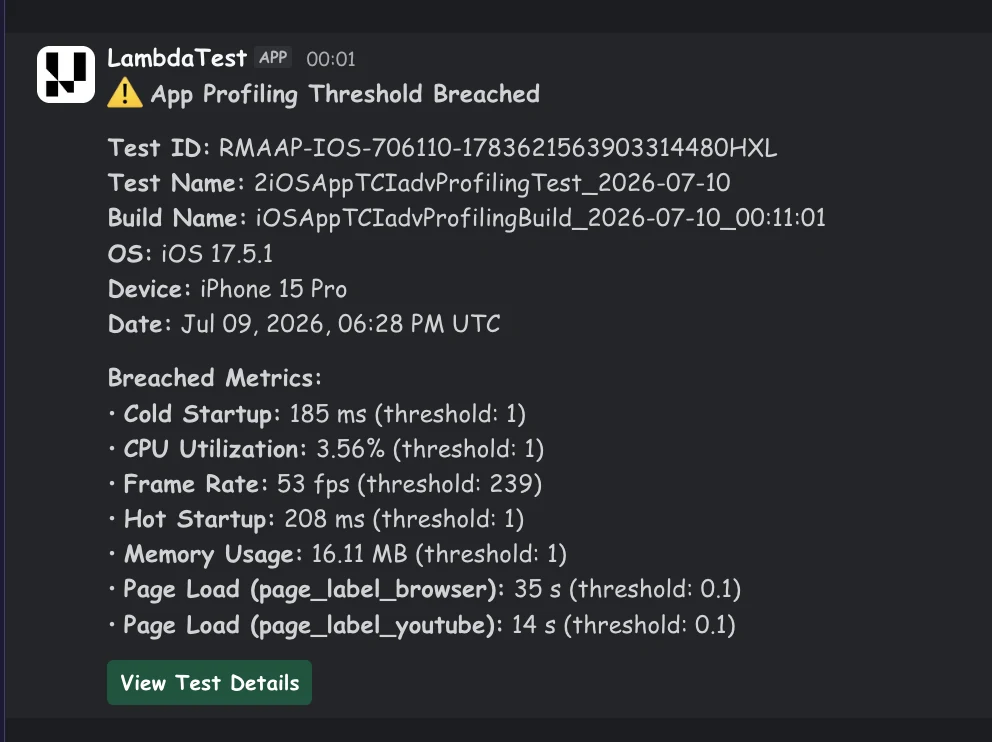
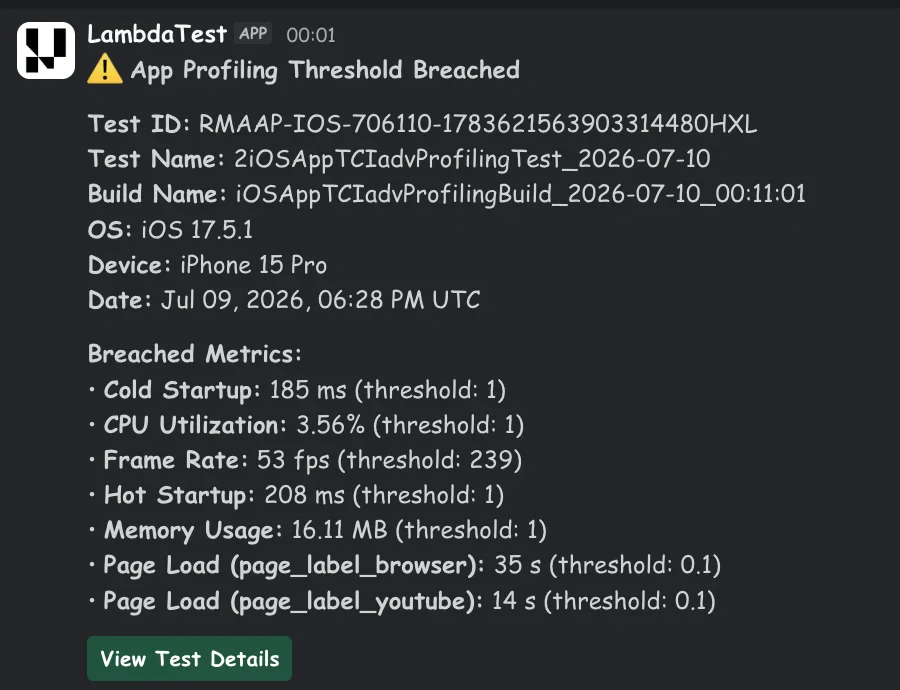
Split App Profiling into Trends and Comparison pages; fix NewTag and crop the alert screenshots
Addresses review feedback on the page structure and images.

Sidebar — Trends and Comparison are now two entries, not one page:
- Wraps both under a nested "App Profiling" category in sidebars.js, following
  the existing "Error Insights" precedent in the same Insights list.
- Comparison moves to its own page, docs/analytics-insights-app-profiling-
  comparison.md, with its own front matter, breadcrumb schema and slug.
- The Trends page keeps id insights-app-profiling; its sidebar_label becomes
  "Trends" so the two read as siblings.

Comparison no longer reads as part of Compare mode. It sat directly after that
section, which made it look like a sub-feature of it. The two are now separate
pages, and both carry an explicit note on the distinction: Compare mode overlays
a dimension (OS, device, build, label) on one widget; Comparison overlays whole
test sessions across every metric.

NewTag rendered as an empty ring. The component signature is
NewTag({ value, color, bgColor }) and value is required — bare <NewTag/> emitted
an empty span, which the .newTagColor rule (1px border, 20px radius, 6px
padding) drew as a small circle. All five usages now pass value="New", matching
the dominant convention in this repo (42 other call sites).

Screenshots cropped to their content rather than the whole window:
- Email alert was a full-page Gmail capture at 2478 px wide — most of it browser
  chrome and white margin. Cropped to the notification itself, 2478x1454 ->
[…]

Changed region(s): [[0.0933, 0.487, 0.8089, 1.0], [0.0, 0.0304, 0.9022, 0.4565]]

diff --git a/sidebars.js b/sidebars.js
@@ -4410,7 +4410,15 @@ module.exports = {
         "analytics-smart-tags-test-intelligence",
         "analytics-test-failure-classification",
         "analytics-ai-root-cause-analysis",
-        "insights-app-profiling",
+        {
+          type: "category",
+          collapsed: true,
+          label: "App Profiling",
+          items: [
+            "insights-app-profiling",
+            "insights-app-profiling-comparison",
+          ],
+        },
       ],
     },
     {

diff --git a/docs/analytics-insights-app-profiling.md b/docs/analytics-insights-app-profiling.md
@@ -1,7 +1,7 @@
 ---
 id: insights-app-profiling
 title: App Profiling Insights
-sidebar_label: App Profiling
+sidebar_label: Trends
 description: App Profiling Insights surfaces CPU, memory, FPS, battery, network and startup metrics per device and build, with p90 views, session Comparison and SLA alerts.
 keywords:
   - analytics
@@ -77,8 +77,8 @@ The page is always scoped to the test you opened. Use the **Test Name** filter t
 
 The dashboard opens on two tabs:
 
-- **Trends** — the aggregated view described below: KPI cards, trend widgets and the device matrix, averaged across every session in the filtered scope.
-- **[Comparison](#comparison)** — an overlay view that plots individual test sessions against one another, run by run.
+- **Trends** — the aggregated view described on this page: KPI cards, trend widgets and the device matrix, averaged across every session in the filtered scope.
+- **[Comparison](/support/docs/insights-app-profiling-comparison/)** — an overlay view that plots individual test sessions against one another, run by run.
 
 ## Filter bar
 
@@ -97,11 +97,11 @@ Each filter is a searchable multi-select; changes take effect when you click **A
 
 Clearing the Test Name filter and clicking Apply restores the test you opened — the dashboard is never scoped to zero tests.
 
-### Saved filters <NewTag/>
+### Saved filters <NewTag value="New" />
 
 Your filter selections, the selected date range, and the widget layout — including any widgets you resize — are **auto-saved at the organisation level**. There is no Save button: when you refresh the page or return to the dashboard later, it reopens with your last-used filters, date range and layout already applied. Use the **Clear All Filters** button to reset everything back to the defaults. The KPI and Compare selections made inside individual widgets are not persisted.
 
-## Average and p90 views <NewTag/>
+## Average and p90 views <NewTag value="New" />
 
 An **Average / p90** toggle in the top bar of the **Trends** tab switches its widgets between two aggregations:
 
@@ -125,11 +125,9 @@ Averages hide spikes. A build whose CPU averages 12% but reaches 45% on every te
 p90 is computed per session at ingestion and then averaged across the sessions in scope — it is *the mean of each session's own 90th percentile*, not the 90th percentile of the whole window. Metrics with no pre-computed p90 — cold and hot startup, and the crash and ANR counts — are dropped in p90 mode and render as `—`. Frozen and janky frame counts stay on their average, because they are companion counts to the frame-rate series rather than percentile-able metrics in their own right.
 :::
 
-### p90 on the Comparison tab
+### p90 and the Comparison view
 
-The Comparison tab has **no Average / p90 toggle** — the Trends toggle does not carry across, and switching tabs will not change what Comparison shows.
-
-It does not need one: every stats table on that tab reports **Avg, Min, Max and P90 side by side, always**, for each selected session. Where the Trends toggle makes you choose one aggregation for the whole dashboard, Comparison shows you all four at once for the handful of runs you have selected — which is the more useful shape when you are looking at individual runs rather than a population.
+The toggle applies to this view only. The [Comparison](/support/docs/insights-app-profiling-comparison/) view has no Average / p90 toggle — it reports Avg, Min, Max and P90 side by side for every selected session instead.
 
 ## Performance Overview
 
@@ -203,79 +201,9 @@ Compare dimensions:
 - **App Build Version** — for build-over-build comparisons
 - **Label** — for page-transition-level breakdowns
 
+Compare mode overlays a **dimension** on a single widget. It is a different feature from the [Comparison](/support/docs/insights-app-profiling-comparison/) view, which overlays whole **test sessions** across every metric at once.
+
 Compare is scoped to the widget — enabling it on one chart does not affect others. Performance Overview, Performance Trends and Device Performance Matrix do not expose Compare: the first two are summary widgets (use filters to change the data scope instead), and the matrix already breaks data down per device.
-
-## Comparison <NewTag/>
-
-The **Comparison** tab plots individual test sessions against one another instead of averaging them. Use it to answer run-level questions the Trends tab cannot: whether a build regressed against the run before it, whether one device is slower than another on the same app, or why a single run behaved differently from the rest.
-
-Where the Trends tab charts a metric over calendar time, Comparison charts it over **elapsed time within each run** — every session starts at `0:00`, so runs of different lengths and different start times line up and can be read against each other.
-
-<img loading="lazy" src={require('../assets/images/analytics/app-profiling-comparison.webp').default} alt="App Profiling Comparison view with three test sessions overlaid" width="768" className="doc_img"/>
-
-### Complete flow
-
-1. Open a test's App Profiling dashboard and select the **Comparison** tab. The **most recent** run of that test is selected automatically and becomes the baseline — note that this is the newest run, not necessarily the specific run you opened the dashboard from.
-2. Narrow the **Test Sessions** rail on the left with the search box and filters until you can see the runs you care about.
-3. Tick the checkbox on each session you want to overlay — up to **five** at a time.
-4. Pick which run everything is measured against with **Set as Baseline**.
-5. Read the charts and the per-metric stats tables. Leave **Baseline Diff.** on to see each session's delta against the baseline.
-6. Drag on the timeline at the top to zoom into a slice of the run; every chart follows.
-
-### Test Sessions rail
-
-The rail lists every session that matches the current filters, with a running count in the header. Sessions you have selected for comparison are **pinned to the top** so they stay visible as you filter; everything else follows, newest first. Each card shows the pass/fail status, the test name, when it ran, a truncated Test ID, and the OS version, device and app build version it ran on.
-
-| Control | What it does |
-|---|---|
-| **Search test name** | Free-text filter over the listed session names |
-| **Test Name** | Multi-select of test names. At least one must stay selected — **Apply** is disabled otherwise |
-| **Date range** | The same picker the Trends tab uses, with presets and a custom range including a time-of-day picker |
-| **More** | **OS**, **App Build Version**, **Device** and **Status** multi-selects |
-| **Clear Filters** | Resets the filters back to the opened test and the comparison back to that test's most recent run. The date range is deliberately preserved — it belongs to the shared picker, not to this filter set |
-| Checkbox | Adds or removes that session from the comparison |
-| **Set as Baseline** | Makes that session the reference every other session is measured against |
-
-<img loading="lazy" src={require('../assets/images/analytics/app-profiling-comparison-filters.webp').default} alt="Test Sessions rail with the More filter menu open showing OS, App Build Version, Device and Status" width="768" className="doc_img"/>
-
-:::note
-You can compare up to five sessions at once — deselect one to add another — and at least one session must stay selected, so the charts are never left empty.
-:::
-
-### How the graphs are drawn
-
-Each metric renders as its own card, in this order: **CPU Utilization**, **Memory Utilization**, **Frame Rate**, **Disk**, **Network**, and **Startup Time**.
-
-- **One series per selected session**, coloured consistently across every card — a session keeps its colour everywhere, so you can follow one run down the page.
-- **A shared elapsed-time X-axis.** Dragging on the **Comparison of Test Sessions** timeline at the top zooms every chart to the same window at once, which is what makes a spike in one metric comparable against another.
-- **Legend toggles.** Click a session in a card's legend to hide or show that series in that card. The last visible series cannot be hidden.
-- **Variant toggles** where a metric has more than one dimension: Application / System on CPU and Memory, Read / Write on Disk, Upload / Download on Network, and Startup Time / Load Time on the startup card.
-- **SLA bands and threshold lines** are drawn from the same org-level thresholds used everywhere else on the dashboard.
-- **A stats table** under every chart with **Avg**, **Min**, **Max** and **P90** per session — all four at once, with no toggle. See [p90 on the Comparison tab](#p90-on-the-comparison-tab).
-
-**Startup Time** is a grouped bar chart rather than a line — it reports one Cold and one Hot value per run, with the Cold and Hot SLA lines drawn across it. Its **Load Time** variant switches to per-page-label load times, plotted by label instead of by elapsed time.
-
-<img loading="lazy" src={require('../assets/images/analytics/app-profiling-comparison-startup.webp').default} alt="Startup Time comparison showing Cold and Hot bars per session with SLA lines and baseline deltas" width="768" className="doc_img"/>
-
-### Baseline and Baseline Diff
-
-One session is always the baseline, marked with a **Baseline** chip in the rail and in every stats table.
-
-With **Baseline Diff.** enabled — it is on by default — every other session's stats show a coloured delta against the baseline: green where the session is better, red where it is worse. The direction that counts as "better" follows the metric, so a lower CPU figure and a higher frame rate are both green. In the Startup Time screenshot above, the two non-baseline runs start `142 ms` and `94 ms` faster than the baseline's cold start.
-
-Turn **Baseline Diff.** off to read raw values with no deltas.
-
-### Saved comparisons <NewTag/>
-
-Your Comparison setup is **auto-saved per test at the organisation level**, the same way the Trends tab saves its filters and layout. There is no Save button. Reopening the tab restores:
-
-- the rail filters — test names, OS, device, status and app build version,
-- which sessions were selected for comparison,
-- which session was the baseline,
-- the **Baseline Diff.** toggle,
-- any series you hid from a card's legend.
-
-The date range is not part of the saved comparison — it is owned by the page's date picker and shared with the Trends tab, so both tabs always report over the same window.
 
 ## SLA thresholds
 
@@ -306,17 +234,17 @@ Battery Utilization (mAh drain) is rendered without a threshold by default — d
 Admins can override the defaults at the organisation level. Regular users see the configured thresholds applied but cannot modify them.
 :::
 
-## Threshold breach alerts <NewTag/>
+## Threshold breach alerts <NewTag value="New" />
 
 When a session breaches a configured App Profiling threshold, <BrandName /> automatically notifies your team over **email** and **Slack** — so you can catch performance regressions without opening the dashboard after every run.
 
 Each alert identifies the run (Test ID, Test Name, Build Name, OS, Device and date) and lists every breached metric with its observed value against the configured threshold, along with a **View Test Details** link that opens the run's App Profiling tab. Metrics that can trigger an alert include Cold Startup, Hot Startup, CPU Utilization, Frame Rate, Memory Usage, Temperature and per-label Page Load.
 
-<img loading="lazy" src={require('../assets/images/analytics/app-profiling-email-alert.webp').default} alt="App Profiling threshold breach email alert" width="768" className="doc_img"/>
+<img loading="lazy" src={require('../assets/images/analytics/app-profiling-email-alert.webp').default} alt="App Profiling threshold breach email alert" width="768" height="958" className="doc_img"/>
 
 The Slack notification carries the same details:
 
-<img loading="lazy" src={require('../assets/images/analytics/app-profiling-slack-alert.webp').default} alt="App Profiling threshold breach Slack alert" width="480" className="doc_img"/>
+<img loading="lazy" src={require('../assets/images/analytics/app-profiling-slack-alert.webp').default} alt="App Profiling threshold breach Slack alert" width="768" height="588" className="doc_img"/>
 
 :::note
 Alerts fire against the same SLA thresholds described above, which are configured at the organisation level by an admin.
@@ -328,5 +256,6 @@ The URL of the dashboard preserves the test it was opened against, and which of 
 
 ## Related
 
+- [App Profiling Comparison](/support/docs/insights-app-profiling-comparison/) — compare individual test sessions run by run against a baseline.
 - [App Performance Analytics](/support/docs/appium-app-performance-analytics/) — how to enable App Profiling on Appium tests and review per-session metrics.
 - [Analytics Overview](/support/docs/analytics-overview/) — the broader Insights module.

diff --git a/docs/analytics-insights-app-profiling-comparison.md b/docs/analytics-insights-app-profiling-comparison.md
@@ -1,0 +1,148 @@
+---
+id: insights-app-profiling-comparison
+title: App Profiling Comparison
+sidebar_label: Comparison
+description: Overlay up to five App Profiling test sessions on a shared elapsed-time axis, set a baseline run and read per-metric deltas, Avg, Min, Max and P90.
+keywords:
+  - analytics
+  - test insights
+  - app profiling
+  - session comparison
+  - baseline diff
+  - mobile app performance
+  - run over run comparison
+  - elapsed time chart
+
+url: https://www.testmuai.com/support/docs/insights-app-profiling-comparison/
+site_name: TestMu AI
+slug: insights-app-profiling-comparison/
+canonical: https://www.testmuai.com/support/docs/insights-app-profiling-comparison/
+---
+
+
+import BrandName, { BRAND_URL } from '@site/src/component/BrandName';
+
+<script type="application/ld+json"
+      dangerouslySetInnerHTML={{ __html: JSON.stringify({
+       "@context": "https://schema.org",
+        "@type": "BreadcrumbList",
+        "itemListElement": [{
+          "@type": "ListItem",
+          "position": 1,
+          "name": "Home",
+          "item": BRAND_URL
+        },{
+          "@type": "ListItem",
+          "position": 2,
+          "name": "Support",
+          "item": `${BRAND_URL}/support/docs/`
+        },{
+          "@type": "ListItem",
+          "position": 3,
+          "name": "App Profiling Comparison",
+          "item": `${BRAND_URL}/support/docs/insights-app-profiling-comparison/`
+        }]
+      })
+    }}
+></script>
+
+---
+
+import NewTag from '../src/component/newTag';
+
+## Overview
+
+The **Comparison** view plots individual test sessions against one another instead of averaging them. Use it to answer run-level questions the [Trends](/support/docs/insights-app-profiling/) view cannot: whether a build regressed against the run before it, whether one device is slower than another on the same app, or why a single run behaved differently from the rest.
+
+Where Trends charts a metric over calendar time, Comparison charts it over **elapsed time within each run** — every session starts at `0:00`, so runs of different lengths and different start times line up and can be read against each other.
+
+<img loading="lazy" src={require('../assets/images/analytics/app-profiling-comparison.webp').default} alt="App Profiling Comparison view with three test sessions overlaid" width="768" height="430" className="doc_img"/>
+
+:::note
+Comparison is a different feature from **Compare mode** on the Trends widgets. Compare mode overlays a *dimension* — OS, device, build or label — on a single widget. Comparison overlays whole *test sessions* across every metric at once. See [Compare mode](/support/docs/insights-app-profiling/#compare-mode).
+:::
+
+## How to access
+
+1. Open the **Insights** section from the left sidebar of the <BrandName /> dashboard.
+2. Select **App Profiling**, then click a test name to open its dashboard.
+3. Switch to the **Comparison** tab.
+
+## Complete flow
+
+1. The **most recent** run of the test is selected automatically and becomes the baseline — note that this is the newest run, not necessarily the specific run you opened the dashboard from.
+2. Narrow the **Test Sessions** rail on the left with the search box and filters until you can see the runs you care about.
+3. Tick the checkbox on each session you want to overlay — up to **five** at a time.
+4. Pick which run everything is measured against with **Set as Baseline**.
+5. Read the charts and the per-metric stats tables. Leave **Baseline Diff.** on to see each session's delta against the baseline.
+6. Drag on the timeline at the top to zoom into a slice of the run; every chart follows.
+
+## Test Sessions rail
+
+The rail lists every session that matches the current filters, with a running count in the header. Sessions you have selected for comparison are **pinned to the top** so they stay visible as you filter; everything else follows, newest first. Each card shows the pass/fail status, the test name, when it ran, a truncated Test ID, and the OS version, device and app build version it ran on.
+
+| Control | What it does |
+|---|---|
+| **Search test name** | Free-text filter over the listed session names |
+| **Test Name** | Multi-select of test names. At least one must stay selected — **Apply** is disabled otherwise |
+| **Date range** | The same picker the Trends view uses, with presets and a custom range including a time-of-day picker |
+| **More** | **OS**, **App Build Version**, **Device** and **Status** multi-selects |
+| **Clear Filters** | Resets the filters back to the opened test and the comparison back to that test's most recent run. The date range is deliberately preserved — it belongs to the shared picker, not to this filter set |
+| Checkbox | Adds or removes that session from the comparison |
+| **Set as Baseline** | Makes that session the reference every other session is measured against |
+
+<img loading="lazy" src={require('../assets/images/analytics/app-profiling-comparison-filters.webp').default} alt="Test Sessions rail with the More filter menu open showing OS, App Build Version, Device and Status" width="768" height="430" className="doc_img"/>
+
+:::note
+You can compare up to five sessions at once — deselect one to add another — and at least one session must stay selected, so the charts are never left empty.
+:::
+
+## How the graphs are drawn
+
+Each metric renders as its own card, in this order: **CPU Utilization**, **Memory Utilization**, **Frame Rate**, **Disk**, **Network**, and **Startup Time**.
+
+- **One series per selected session**, coloured consistently across every card — a session keeps its colour everywhere, so you can follow one run down the page.
+- **A shared elapsed-time X-axis.** Dragging on the **Comparison of Test Sessions** timeline at the top zooms every chart to the same window at once, which is what makes a spike in one metric comparable against another.
+- **Legend toggles.** Click a session in a card's legend to hide or show that series in that card. The last visible series cannot be hidden.
+- **Variant toggles** where a metric has more than one dimension: Application / System on CPU and Memory, Read / Write on Disk, Upload / Download on Network, and Startup Time / Load Time on the startup card.
+- **SLA bands and threshold lines** are drawn from the same org-level thresholds used everywhere else on the dashboard. See [SLA thresholds](/support/docs/insights-app-profiling/#sla-thresholds).
+- **A stats table** under every chart with **Avg**, **Min**, **Max** and **P90** per session.
+
+**Startup Time** is a grouped bar chart rather than a line — it reports one Cold and one Hot value per run, with the Cold and Hot SLA lines drawn across it. Its **Load Time** variant switches to per-page-label load times, plotted by label instead of by elapsed time.
+
+<img loading="lazy" src={require('../assets/images/analytics/app-profiling-comparison-startup.webp').default} alt="Startup Time comparison showing Cold and Hot bars per session with SLA lines and baseline deltas" width="768" height="430" className="doc_img"/>
+
+## Avg, Min, Max and P90
+
+Every stats table reports all four aggregations **side by side, always**, for each selected session.
+
+There is no Average / p90 toggle on this view. The toggle on the [Trends](/support/docs/insights-app-profiling/#average-and-p90-views) view does not carry across, and switching between the two will not change what Comparison shows — it does not need to, because Comparison already shows you every aggregation at once for the handful of runs you have selected. That is the more useful shape when you are looking at individual runs rather than a population.
+
+## Baseline and Baseline Diff
+
+One session is always the baseline, marked with a **Baseline** chip in the rail and in every stats table.
+
+With **Baseline Diff.** enabled — it is on by default — every other session's stats show a coloured delta against the baseline: green where the session is better, red where it is worse. The direction that counts as "better" follows the metric, so a lower CPU figure and a higher frame rate are both green. In the Startup Time screenshot above, the two non-baseline runs start `142 ms` and `94 ms` faster than the baseline's cold start.
+
+Turn **Baseline Diff.** off to read raw values with no deltas.
+
+## Saved comparisons <NewTag value="New" />
+
+Your Comparison setup is **auto-saved per test at the organisation level**, the same way the Trends view saves its filters and layout. There is no Save button. Reopening the view restores:
+
+- the rail filters — test names, OS, device, status and app build version,
+- which sessions were selected for comparison,
+- which session was the baseline,
+- the **Baseline Diff.** toggle,
+- any series you hid from a card's legend.
+
+The date range is not part of the saved comparison — it is owned by the page's date picker and shared with the Trends view, so both always report over the same window.
+
+## Sharing a comparison
+
+The URL preserves the test and the active view, so a link copied from Comparison reopens on Comparison. Filter and session selections are not round-tripped through the URL — they are restored from your own saved comparison instead.
+
+## Related
+
+- [App Profiling Trends](/support/docs/insights-app-profiling/) — the aggregated view, its filters, widgets, SLA thresholds and breach alerts.
+- [App Performance Analytics](/support/docs/appium-app-performance-analytics/) — how to enable App Profiling on Appium tests and review per-session metrics.
